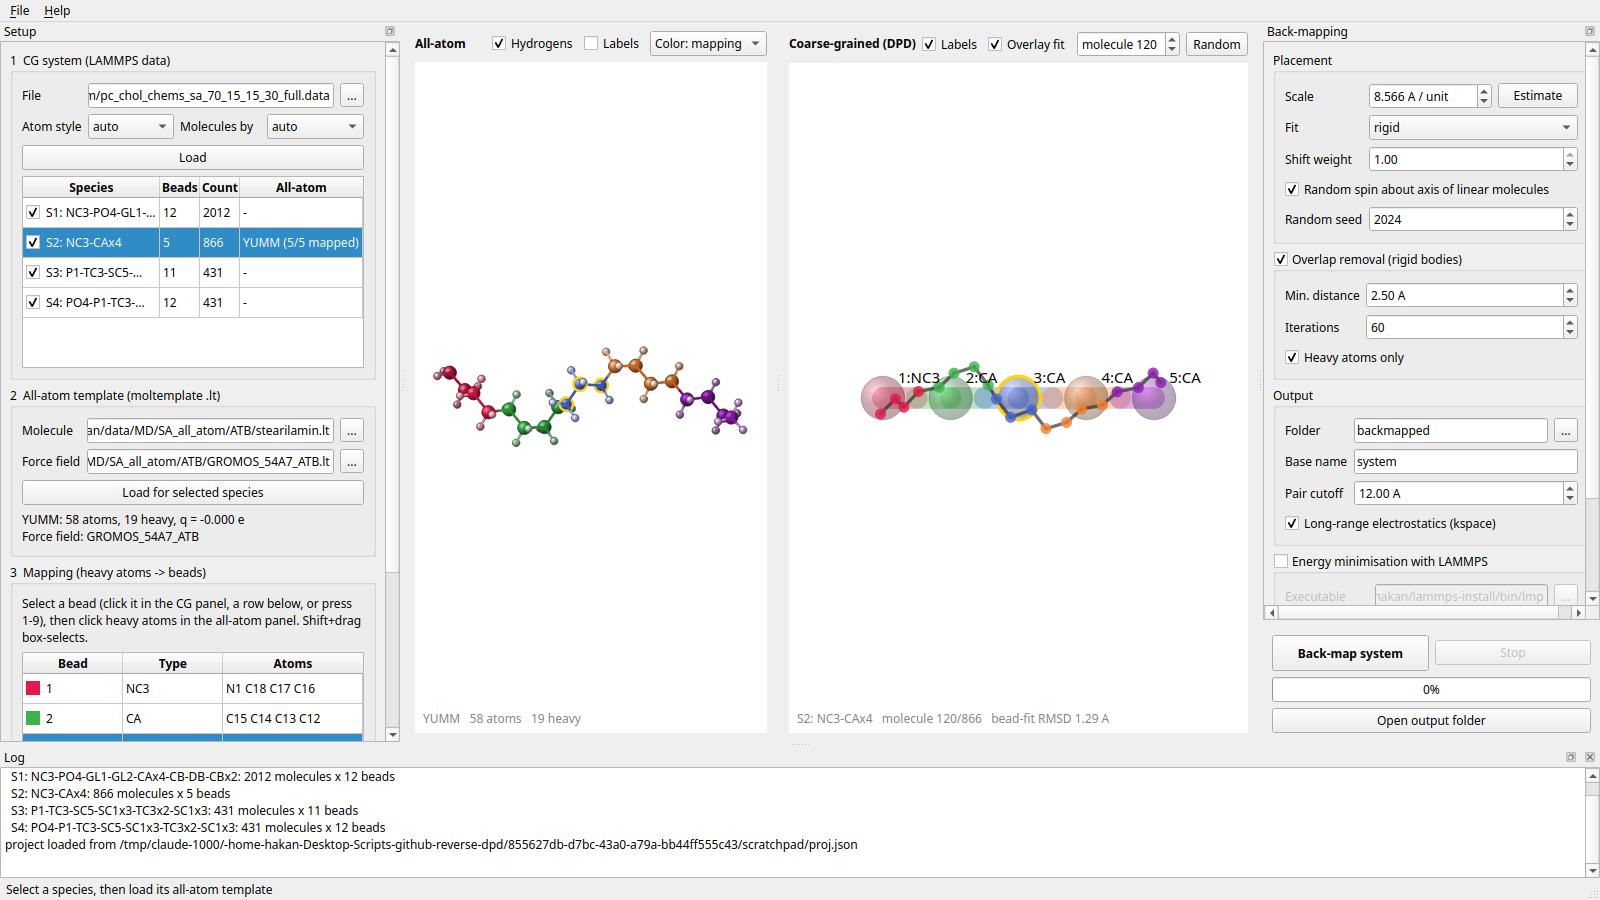
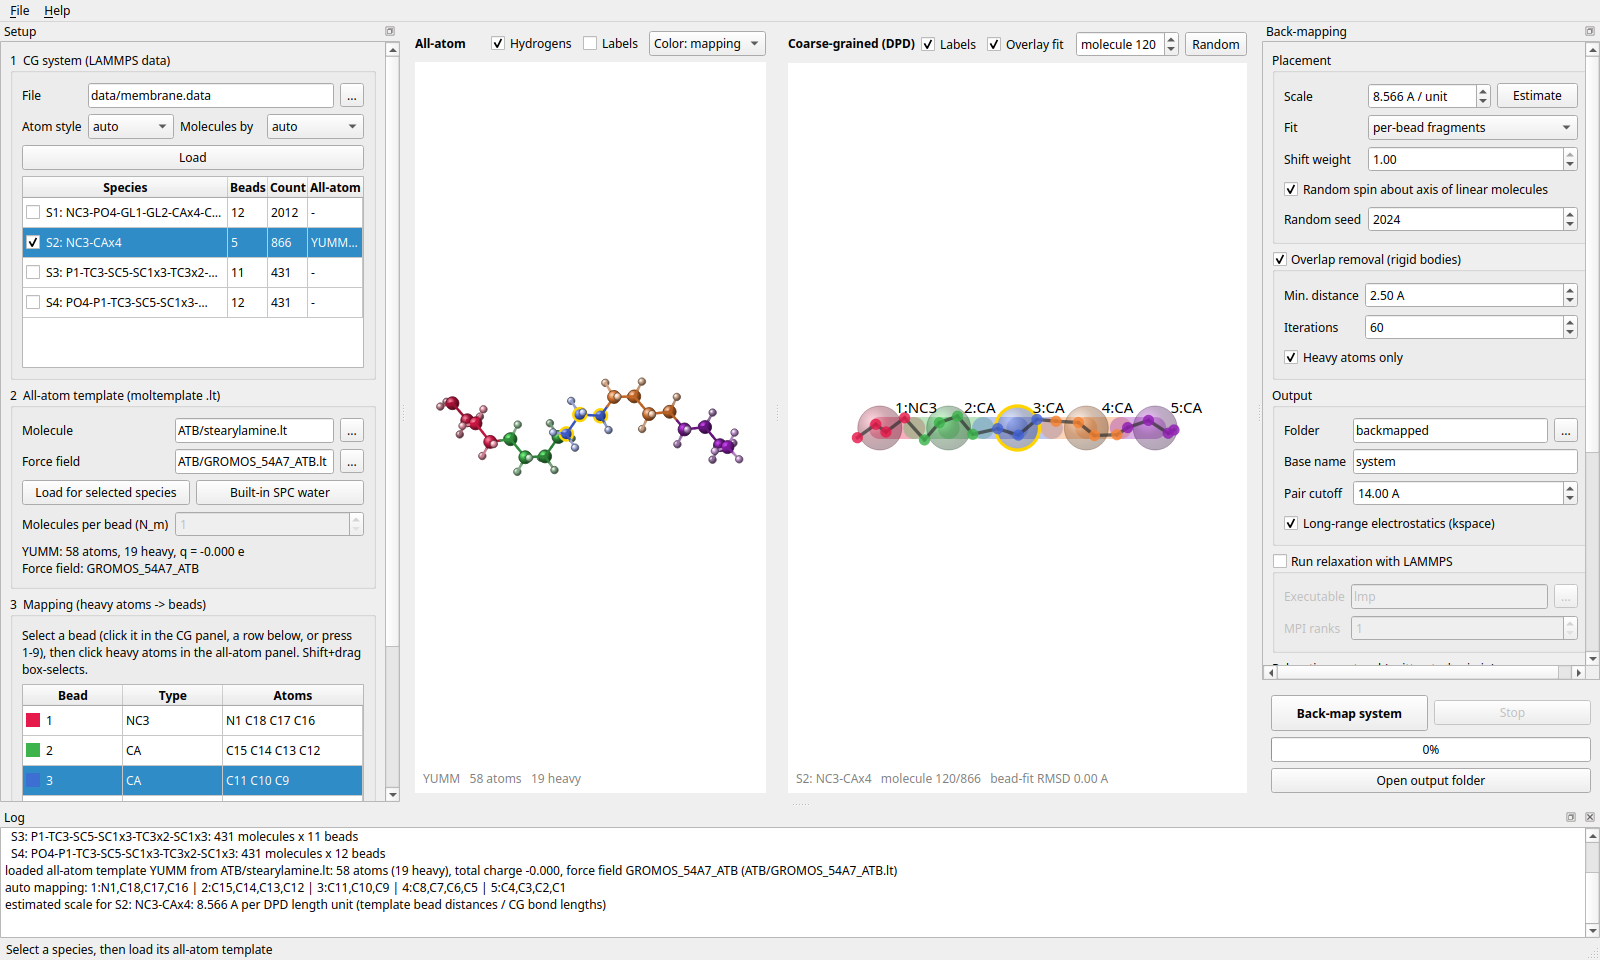
Prepare for GitHub release
- fix: write pair_modify after pair_style (e.g. OPLS-AA mixing), with test
- default pair cutoff 14 A (GROMOS)
- README: pipx/uv installation, CI badge, contributing section
- pyproject: authors, keywords, project URLs, pytest config
- GitHub Actions workflow running the tests on Python 3.10-3.13
- new screenshot of the current GUI without local paths

diff --git a/src/revdpd/io/lammps_writer.py b/src/revdpd/io/lammps_writer.py
@@ -26,7 +26,7 @@ class MoleculeSet:
 @dataclass
 class OutputSettings:
     basename: str = "system"
-    cutoff: float = 12.0
+    cutoff: float = 14.0           # Angstrom (GROMOS was parametrised with 1.4 nm)
     long_range: bool = True       # keep coul/long + kspace from the force field
     soft_stage: bool = True       # soft-potential push-off before the real minimisation
     soft_a: float = 30.0          # kcal/mol, pair_style soft prefactor
@@ -273,7 +273,13 @@ def relaxation_script(b: str, init: list[str], pair_style: str, kspace: str | No
 
 
 def _init_block(ff: ForceField, st: OutputSettings) -> tuple[list[str], str, str | None]:
-    init, pair_style, kspace = [], None, None
+    """Split the force field's init commands into (general, pair block, kspace).
+
+    The pair block is ``pair_style`` followed by any ``pair_modify`` lines (e.g.
+    ``pair_modify mix geometric`` for OPLS-AA), which LAMMPS only accepts after the
+    pair style has been defined and which must be repeated whenever it is redefined.
+    """
+    init, pair_style, kspace, modify = [], None, None, []
     for ln in ff.init_lines:
         tok = ln.split()
         if not tok:
@@ -282,6 +288,8 @@ def _init_block(ff: ForceField, st: OutputSettings) -> tuple[list[str], str, str
             pair_style = " ".join(tok).replace("${cutoff}", f"{st.cutoff:g}")
         elif tok[0] == "kspace_style":
             kspace = " ".join(tok)
+        elif tok[0] == "pair_modify":
+            modify.append(" ".join(tok))
         else:
             init.append(" ".join(tok))
     if pair_style is None:
@@ -289,4 +297,4 @@ def _init_block(ff: ForceField, st: OutputSettings) -> tuple[list[str], str, str
     if not st.long_range:
         pair_style = pair_style.replace("coul/long", "coul/cut")
         kspace = None
-    return init, pair_style, kspace
+    return init, "\n".join([pair_style] + modify), kspace

diff --git a/tests/test_backmap.py b/tests/test_backmap.py
@@ -165,3 +165,14 @@ def test_molid_zero_is_split_by_bonds(tmp_path):
     (tmp_path / "z.data").write_text("\n".join(lines) + "\n")
     cg = CGSystem(read_lammps_data(tmp_path / "z.data", "angle"), "molid")
     assert cg.species[0].count == 5
+
+
+def test_pair_modify_follows_pair_style(tmp_path):
+    from revdpd.io.lammps_writer import MoleculeSet, write_lammps
+    m = parse_molecule(write_aa(tmp_path))
+    m.ff.init_lines.insert(1, "pair_modify mix geometric")       # e.g. OPLS-AA
+    box = Box(np.zeros(3), np.full(3, 40.0))
+    res = write_lammps(tmp_path / "o", [MoleculeSet(m, [m.pos + 20.0])], box, OutputSettings(cutoff=10.0))
+    for f in (res.files["init"], res.files["run"]):
+        lines = [ln for ln in f.read_text().splitlines() if ln.startswith(("pair_style lj", "pair_modify"))]
+        assert lines == ["pair_style lj/cut/coul/long 10", "pair_modify mix geometric"], lines

diff --git a/src/revdpd/gui/main_window.py b/src/revdpd/gui/main_window.py
@@ -345,7 +345,7 @@ class MainWindow(QMainWindow):
         f6.addRow("Base name", self.ed_base)
         self.spn_cut = QDoubleSpinBox()
         self.spn_cut.setRange(4, 30)
-        self.spn_cut.setValue(12.0)
+        self.spn_cut.setValue(14.0)
         self.spn_cut.setSuffix(" A")
         f6.addRow("Pair cutoff", self.spn_cut)
         self.chk_long = QCheckBox("Long-range electrostatics (kspace)")

diff --git a/README.md b/README.md
@@ -6,6 +6,8 @@ CG bead** by clicking in two side-by-side 3D views, and then places an all-atom 
 every molecule into the system **keeping the orientation of each CG molecule**.
 Optionally it removes overlaps and minimises the result with LAMMPS.
 
+[![tests](https://github.com/erroshakan1/revdpd/actions/workflows/tests.yml/badge.svg)](https://github.com/erroshakan1/revdpd/actions/workflows/tests.yml)
+
 ![revdpd screenshot](docs/screenshot.png)
 
 ## Features
@@ -40,16 +42,33 @@ Optionally it removes overlaps and minimises the result with LAMMPS.
 
 ## Installation
 
+The easiest way is [pipx](https://pipx.pypa.io) (or [uv](https://docs.astral.sh/uv/)),
+which installs revdpd in its own isolated environment and puts the `revdpd` command on
+your `PATH`:
+
 ```bash
-git clone <this repository> revdpd && cd revdpd
-python -m venv .venv && source .venv/bin/activate      # fish: source .venv/bin/activate.fish
-pip install -e .            # or: pip install -e ".[dev]" to also get pytest
+pipx install git+https://github.com/erroshakan1/revdpd
+# or
+uv tool install git+https://github.com/erroshakan1/revdpd
 ```
 
-Requirements: Python ≥ 3.10, NumPy, SciPy, PySide6. LAMMPS is only needed for the
-optional minimisation (with the `MOLECULE`, `KSPACE` and `EXTRA-MOLECULE` packages for
-GROMOS/ATB force fields). The executable is searched as `lmp`, `lmp_serial`, `lmp_mpi` …
-in `PATH` or taken from `$LAMMPS_EXE`, and can be chosen in the GUI.
+Update later with `pipx upgrade revdpd` (or `uv tool upgrade revdpd`).
+Plain pip works as well: `pip install git+https://github.com/erroshakan1/revdpd`.
+
+For development:
+
+```bash
+git clone https://github.com/erroshakan1/revdpd && cd revdpd
+python -m venv .venv && source .venv/bin/activate      # fish: source .venv/bin/activate.fish
+pip install -e ".[dev]"
+pytest
+```
+
+Requirements: Python ≥ 3.10, NumPy, SciPy, PySide6 (installed automatically). LAMMPS is
+only needed for the optional relaxation (with the `MOLECULE`, `KSPACE` and
+`EXTRA-MOLECULE` packages for GROMOS/ATB force fields). The executable is searched as
+`lmp`, `lmp_serial`, `lmp_mpi` … in `PATH` or taken from `$LAMMPS_EXE`, and can be chosen
+in the GUI.
 
 ## Usage
 
@@ -166,8 +185,13 @@ pip install -e ".[dev]"
 pytest
 ```
 
-The LAMMPS test is skipped when no LAMMPS executable is found.
+The LAMMPS tests are skipped when no LAMMPS executable is found.
+
+## Contributing
+
+Bug reports and feature requests are welcome in the
+[issue tracker](https://github.com/erroshakan1/revdpd/issues).
 
 ## License
 
-MIT
+MIT, see [LICENSE](LICENSE).
